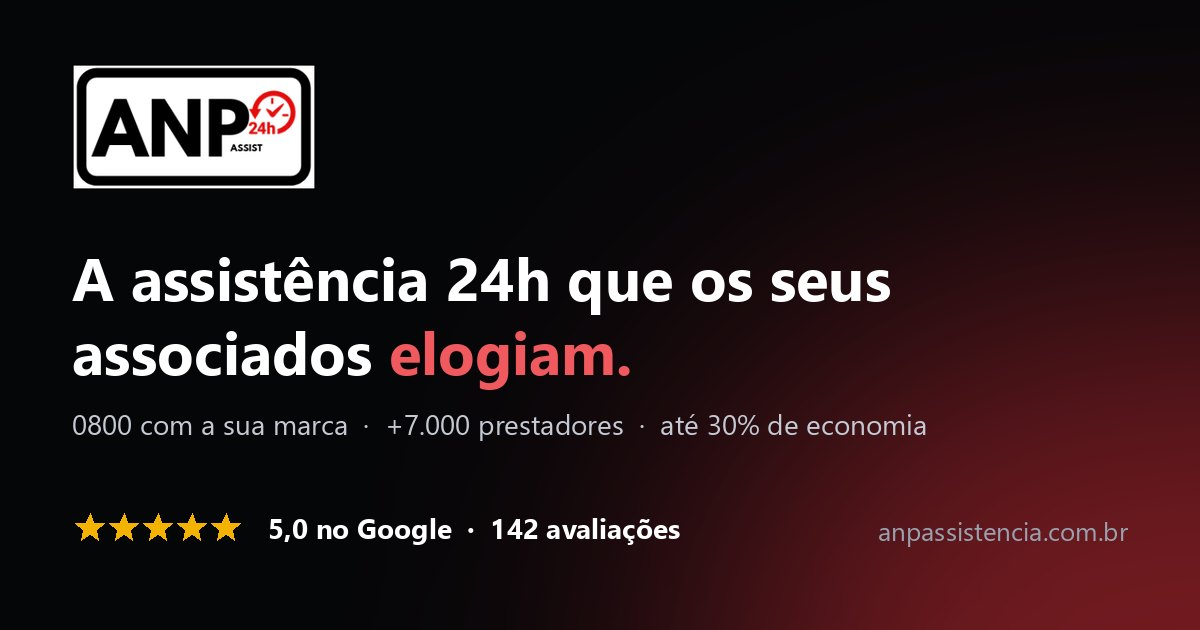
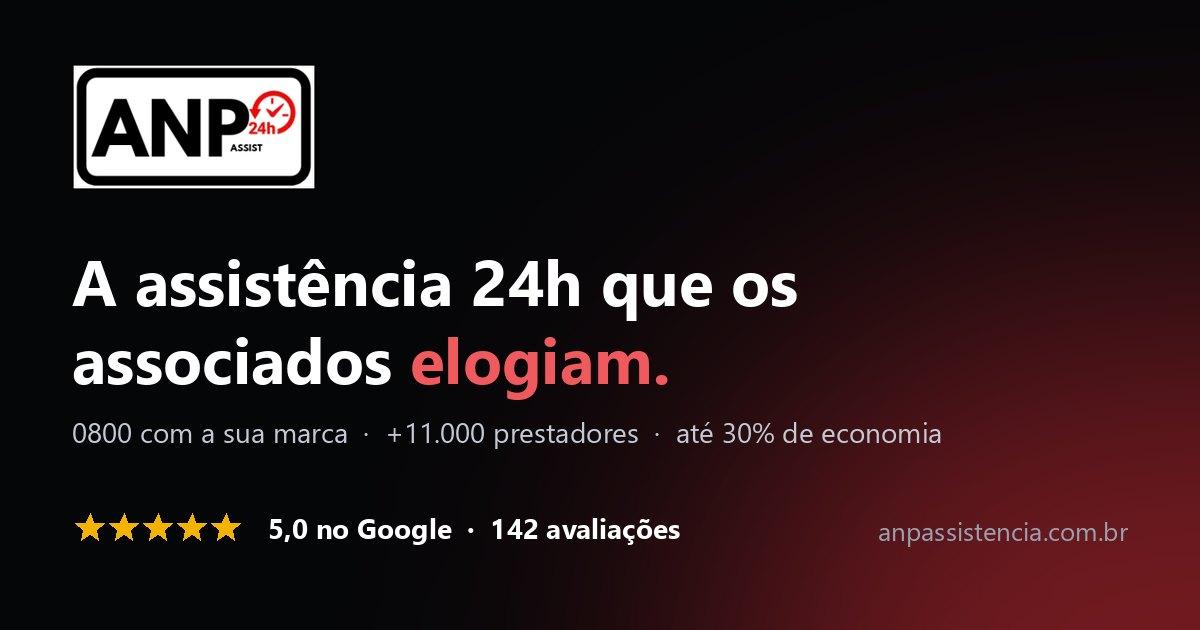
Header escuro, um só selo do Google no hero e +11.000 prestadores
- Header e menu mobile escuros, contínuos com o hero (logo branco)
- Hero sem a pílula do Google repetida; fica só o cartão de nota
- Remove menções a planos de 300/500/1.000 km e plano faturado por km
- Prestadores: +7.000 -> +11.000 (textos, meta tags e imagem de compartilhamento)
- Faixa de socorro em uma linha no celular

Changed region(s): [[0.0617, 0.3921, 0.74, 0.5127], [0.0617, 0.5127, 0.555, 0.6333], [0.0617, 0.6635, 0.8017, 0.7238]]

diff --git a/index.html b/index.html
@@ -4,7 +4,7 @@
   <meta charset="utf-8">
   <meta name="viewport" content="width=device-width, initial-scale=1">
   <title>ANP Assistência 24h | Central de assistência 24h para associações e empresas</title>
-  <meta name="description" content="Assistência 24h para associações de proteção veicular e empresas. Nota 5,0 no Google com 142 avaliações, +7.000 prestadores em todo o Brasil e até 30% de economia.">
+  <meta name="description" content="Assistência 24h para associações de proteção veicular e empresas. Nota 5,0 no Google com 142 avaliações, +11.000 prestadores em todo o Brasil e até 30% de economia.">
   <link rel="canonical" href="https://anpassistencia.com.br/">
   <meta name="theme-color" content="#0C0E13">
 
@@ -12,7 +12,7 @@
   <meta property="og:locale" content="pt_BR">
   <meta property="og:site_name" content="ANP Assistência 24h">
   <meta property="og:title" content="ANP Assistência 24h — a assistência que seus associados elogiam">
-  <meta property="og:description" content="Nota 5,0 no Google com 142 avaliações. 0800 com a sua marca, +7.000 prestadores e até 30% de economia.">
+  <meta property="og:description" content="Nota 5,0 no Google com 142 avaliações. 0800 com a sua marca, +11.000 prestadores e até 30% de economia.">
   <meta property="og:url" content="https://anpassistencia.com.br/">
   <meta property="og:image" content="https://anpassistencia.com.br/assets/img/og-image.jpg">
   <meta name="twitter:card" content="summary_large_image">
@@ -97,7 +97,7 @@
 
 <div class="sos-bar">
   <div class="container sos-inner">
-    <span class="sos-text"><span class="pulse-dot" aria-hidden="true"></span>Socorro 24h, ligação grátis:</span>
+    <span class="sos-text"><span class="pulse-dot" aria-hidden="true"></span>Socorro 24h<span class="sos-long">, ligação grátis</span>:</span>
     <a class="sos-phone" href="tel:08008785160"><svg class="ic"><use href="#i-phone"/></svg>0800 878 5160</a>
   </div>
 </div>
@@ -105,7 +105,7 @@
 <header class="site-header" id="topo">
   <div class="container header-inner">
     <a class="brand" href="#topo" aria-label="ANP Assistência 24h — início">
-      <img src="assets/img/logo-anp.png" alt="ANP Assist 24h" width="305" height="157">
+      <img src="assets/img/logo-anp-branco.png" alt="ANP Assist 24h" width="214" height="110">
     </a>
     <nav class="main-nav" id="menu" aria-label="Menu principal">
       <a href="#avaliacoes">Avaliações</a>
@@ -132,19 +132,15 @@
     <div class="hero-bg" aria-hidden="true"></div>
     <div class="container hero-grid">
       <div class="hero-copy">
-        <a class="g-pill" href="#avaliacoes">
-          <svg class="g-logo" aria-hidden="true"><use href="#i-google"/></svg>
-          <span class="stars" aria-hidden="true"><svg><use href="#i-star"/></svg><svg><use href="#i-star"/></svg><svg><use href="#i-star"/></svg><svg><use href="#i-star"/></svg><svg><use href="#i-star"/></svg></span>
-          <span><b data-g="nota">5,0</b> · <span data-g="total">142</span> avaliações</span>
-        </a>
+        <span class="eyebrow eyebrow-dark">Assistência 24h para associações e empresas</span>
         <h1>A assistência 24h que os associados <em>elogiam</em>.</h1>
-        <p class="lead">Central completa para associações e empresas, com até 30% de economia.</p>
+        <p class="lead">Sua central de atendimento completa, com até 30% de economia.</p>
         <div class="hero-ctas">
           <a class="btn btn-primary btn-lg" href="#proposta">Solicitar proposta <svg class="ic"><use href="#i-arrow"/></svg></a>
           <a class="btn btn-ghost-light btn-lg js-wa" href="https://wa.me/5532999222398" data-msg="Olá! Vim pelo site e quero saber mais sobre a assistência 24h da ANP." target="_blank" rel="noopener"><svg class="ic ic-fill"><use href="#i-whatsapp"/></svg>WhatsApp</a>
         </div>
         <ul class="hero-nums">
-          <li><b>+7.000</b><span>prestadores</span></li>
+          <li><b>+11.000</b><span>prestadores</span></li>
           <li><b>24h</b><span>todos os dias</span></li>
           <li><b>Brasil</b><span>inteiro</span></li>
         </ul>
@@ -199,7 +195,7 @@
         <a class="audience-card reveal" href="#proposta">
           <span class="card-icon"><svg class="ic"><use href="#i-building"/></svg></span>
           <h3>Empresas e frotas</h3>
-          <p>Carros, motos, utilitários e caminhões, com faturamento mensal.</p>
+          <p>Assistência para carros, motos, utilitários e caminhões.</p>
           <span class="link-arrow">Falar com o comercial <svg class="ic"><use href="#i-arrow"/></svg></span>
         </a>
         <a class="audience-card reveal js-wa" href="https://wa.me/5532999222398" data-msg="Olá! Sou pessoa física e quero saber sobre a assistência 24h da ANP." target="_blank" rel="noopener">
@@ -218,7 +214,7 @@
         <li><svg class="ic"><use href="#i-key"/></svg>Chaveiro</li>
         <li><svg class="ic"><use href="#i-shield"/></svg>Roubo e furto</li>
       </ul>
-      <p class="tiles-note reveal">Auto, moto, utilitário e caminhão · planos de 300, 500 ou 1.000 km</p>
+      <p class="tiles-note reveal">Para auto, moto, utilitário e caminhão</p>
     </div>
   </section>
 
@@ -391,11 +387,11 @@
       <div class="faq reveal">
         <details>
           <summary>Como funciona a cobrança?</summary>
-          <p>Mensalidade por placa ativa, mais barata conforme o volume. Para frotas, também há plano faturado por km.</p>
+          <p>Mensalidade por placa ativa, mais barata conforme o volume.</p>
         </details>
         <details>
           <summary>Vocês atendem em todo o Brasil?</summary>
-          <p>Sim, com mais de 7.000 prestadores cadastrados.</p>
+          <p>Sim, com mais de 11.000 prestadores cadastrados.</p>
         </details>
         <details>
           <summary>Quais veículos são atendidos?</summary>

diff --git a/assets/css/style.css b/assets/css/style.css
@@ -140,21 +140,21 @@ button { font: inherit; cursor: pointer; }
 /* Header ----------------------------------------------------------------- */
 .site-header {
   position: sticky; top: 0; z-index: 50;
-  background: rgba(255, 255, 255, .86);
-  backdrop-filter: saturate(1.6) blur(14px);
-  -webkit-backdrop-filter: saturate(1.6) blur(14px);
+  background: rgba(12, 14, 19, .9);
+  backdrop-filter: saturate(1.4) blur(14px);
+  -webkit-backdrop-filter: saturate(1.4) blur(14px);
   border-bottom: 1px solid transparent;
   transition: border-color .25s, box-shadow .25s;
 }
-.site-header.scrolled { border-bottom-color: var(--line); box-shadow: 0 6px 24px -18px rgba(12, 14, 19, .4); }
+.site-header.scrolled { border-bottom-color: var(--ink-line); box-shadow: 0 10px 30px -18px rgba(0, 0, 0, .6); }
 .header-inner { display: flex; align-items: center; gap: 24px; height: var(--header-h); }
 .brand img { height: 44px; width: auto; }
 .main-nav { display: flex; align-items: center; gap: 4px; margin-left: auto; }
-.main-nav a { padding: 8px 12px; border-radius: 999px; text-decoration: none; font-weight: 600; font-size: .95rem; color: #2a2e37; transition: background-color .2s, color .2s; }
-.main-nav a:hover { background: var(--paper); color: var(--text); }
+.main-nav a { padding: 8px 12px; border-radius: 999px; text-decoration: none; font-weight: 600; font-size: .95rem; color: #c9ced8; transition: background-color .2s, color .2s; }
+.main-nav a:hover { background: rgba(255, 255, 255, .08); color: var(--white); }
 .main-nav .nav-cta-mobile { display: none; }
 .header-actions { display: flex; align-items: center; gap: 10px; }
-.menu-toggle { display: none; width: 44px; height: 44px; border-radius: 12px; border: 1px solid var(--line); background: var(--white); color: var(--text); align-items: center; justify-content: center; }
+.menu-toggle { display: none; width: 44px; height: 44px; border-radius: 12px; border: 1px solid var(--ink-line); background: rgba(255, 255, 255, .05); color: var(--white); align-items: center; justify-content: center; }
 .menu-toggle .ic-close { display: none; }
 .menu-toggle[aria-expanded="true"] .ic-open { display: none; }
 .menu-toggle[aria-expanded="true"] .ic-close { display: block; }
@@ -177,7 +177,7 @@ button { font: inherit; cursor: pointer; }
 }
 .hero-grid { display: grid; grid-template-columns: 1.1fr .9fr; gap: 64px; align-items: center; }
 .hero-grid > *, .platform-layout > *, .structure-layout > *, .provider-layout > *, .proposal-layout > *, .faq-layout > * { min-width: 0; }
-.hero h1 { margin-top: 26px; font-size: clamp(2.35rem, 1.3rem + 3.4vw, 3.7rem); font-weight: 800; color: var(--white); letter-spacing: -.035em; }
+.hero h1 { font-size: clamp(2.35rem, 1.3rem + 3.4vw, 3.7rem); font-weight: 800; color: var(--white); letter-spacing: -.035em; }
 .hero h1 em { font-style: normal; color: var(--red-400); position: relative; white-space: nowrap; }
 .hero h1 em::after { content: ""; position: absolute; left: 0; right: 0; bottom: .02em; height: .1em; background: currentColor; opacity: .35; border-radius: 4px; }
 .hero .lead { margin-top: 20px; font-size: clamp(1.05rem, 1rem + .35vw, 1.22rem); color: #c4c9d4; max-width: 30em; }
@@ -446,8 +446,8 @@ button { font: inherit; cursor: pointer; }
     max-height: calc(100vh - var(--header-h)); overflow-y: auto;
     flex-direction: column; align-items: stretch; gap: 2px;
     padding: 12px var(--gutter) 24px;
-    background: var(--white); border-bottom: 1px solid var(--line);
-    box-shadow: 0 24px 40px -20px rgba(12, 14, 19, .3);
+    background: var(--ink-2); border-bottom: 1px solid var(--ink-line);
+    box-shadow: 0 24px 40px -20px rgba(0, 0, 0, .6);
     transform: translateY(-8px); opacity: 0; visibility: hidden;
     transition: opacity .2s, transform .2s, visibility .2s;
   }
@@ -472,8 +472,8 @@ button { font: inherit; cursor: pointer; }
   :root { --header-h: 64px; }
   .brand img { height: 38px; }
   .sos-text { font-size: .85rem; }
+  .sos-long { display: none; }
 
-  .hero h1 { margin-top: 22px; }
   .hero-ctas .btn { flex: 1 1 0; padding: 0 16px; }
   .hero-nums { justify-content: space-between; gap: 12px; }
   .hero-nums b { font-size: 1.3rem; }
